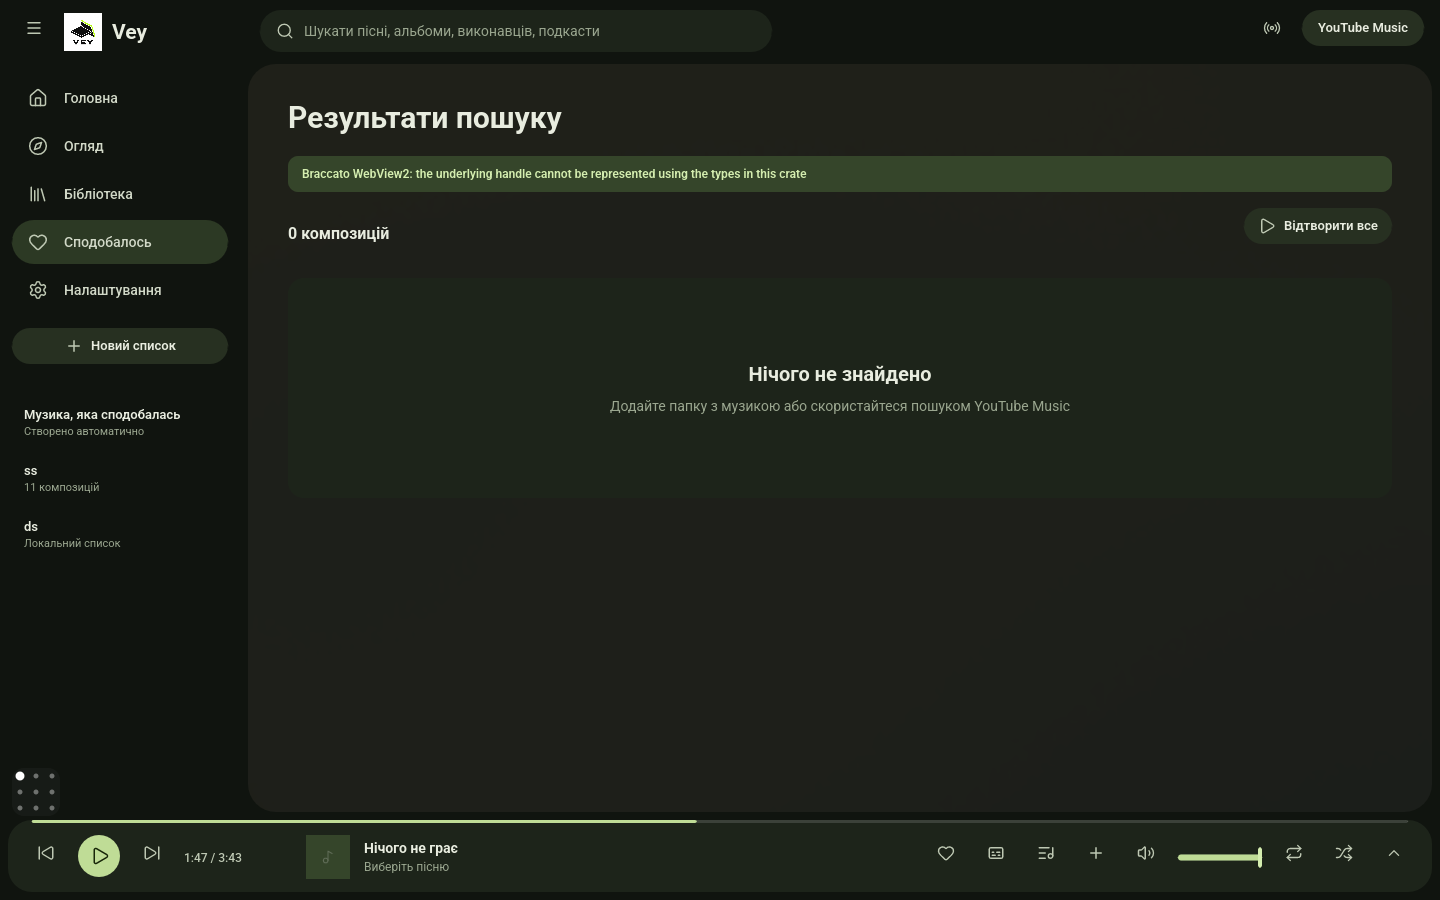
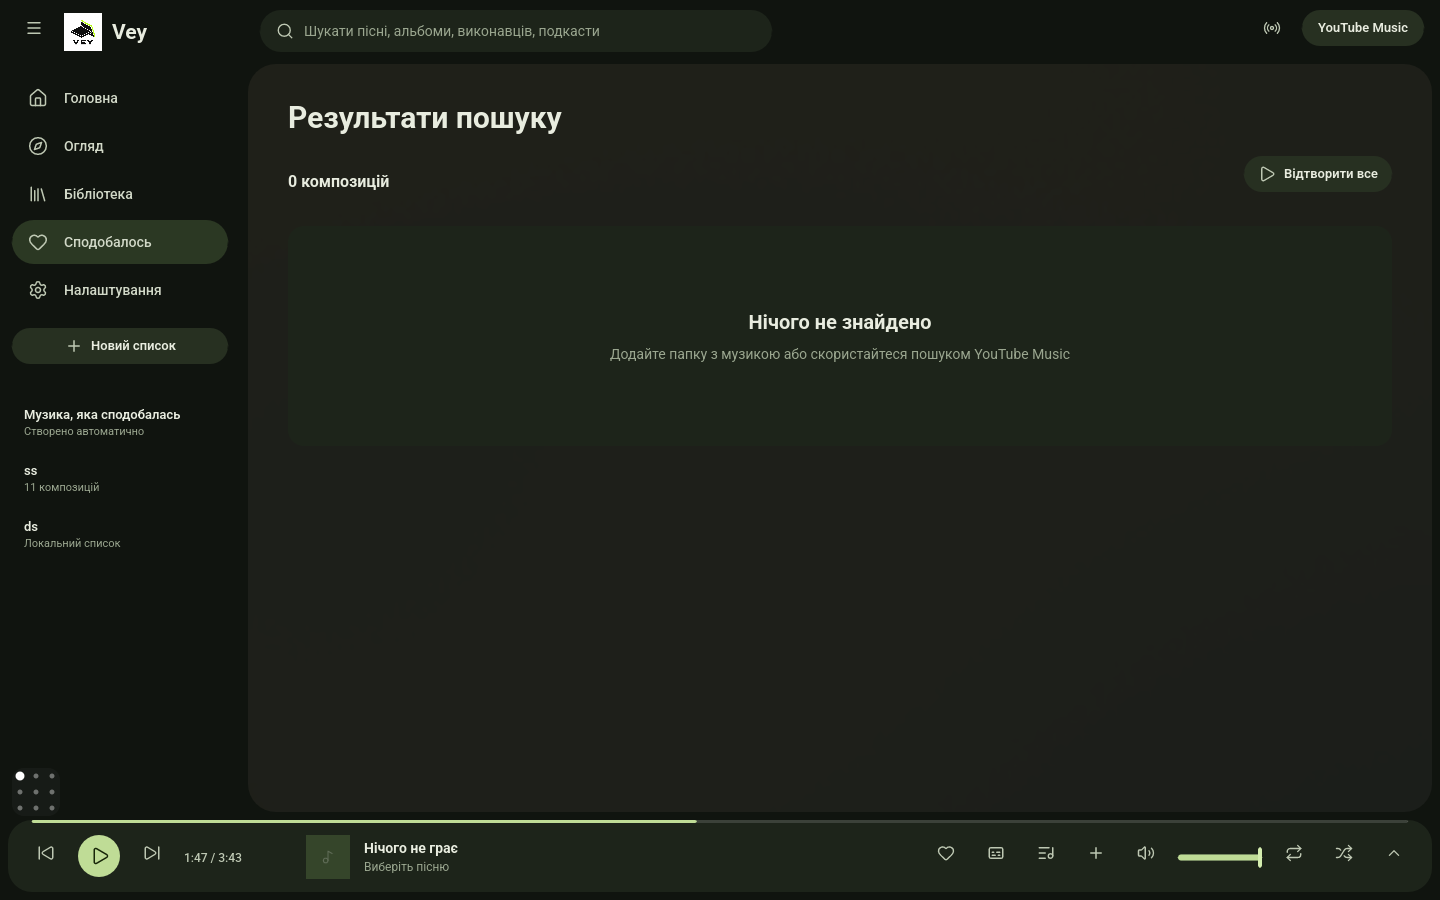
Keep native lyric startup retry feedback off the home page

diff --git a/src/lyrics_widget.rs b/src/lyrics_widget.rs
@@ -463,8 +463,10 @@ pub fn install(w: &MainWindow) -> Option<slint::Timer> {
             match result {
                 Ok(view) => {host=Some(Host {view,_context:context,events:rx,ready:false,started:Instant::now(),visible:false,bounds:(0,0,0,0),bridge:Bridge::default(),clip_key:String::new(),diagnostic_at:Instant::now(),diagnostics:vec![]});}
                 Err(e) => {
-                    w.set_lyrics_renderer_error(format!("Не вдалося запустити Braccato: {e}").into());
-                    w.set_status(format!("Braccato WebView2: {e}").into());
+                    // Startup can race native handle creation. Keep retry feedback
+                    // on the lyric surface instead of a persistent Home banner.
+                    w.set_lyrics_renderer_error("Не вдалося запустити слова. Повторюємо запуск…".into());
+                    eprintln!("Braccato WebView2: {e}");
                 },
             }
         }

diff --git a/docs/MATERIAL-STYLE.md b/docs/MATERIAL-STYLE.md
@@ -25,3 +25,6 @@ Validation evidence is in `material-check.json`, the `material::` unit tests,
 and screenshots 41–44. The browser test changes warm/cool artwork, delays the
 second cover, navigates between pages, checks real audio volume through pointer
 and keyboard input, and captures desktop/mobile views.
+
+Native renderer startup retry feedback stays on the lyric surface instead of
+leaving implementation diagnostics in a persistent home-page banner.
